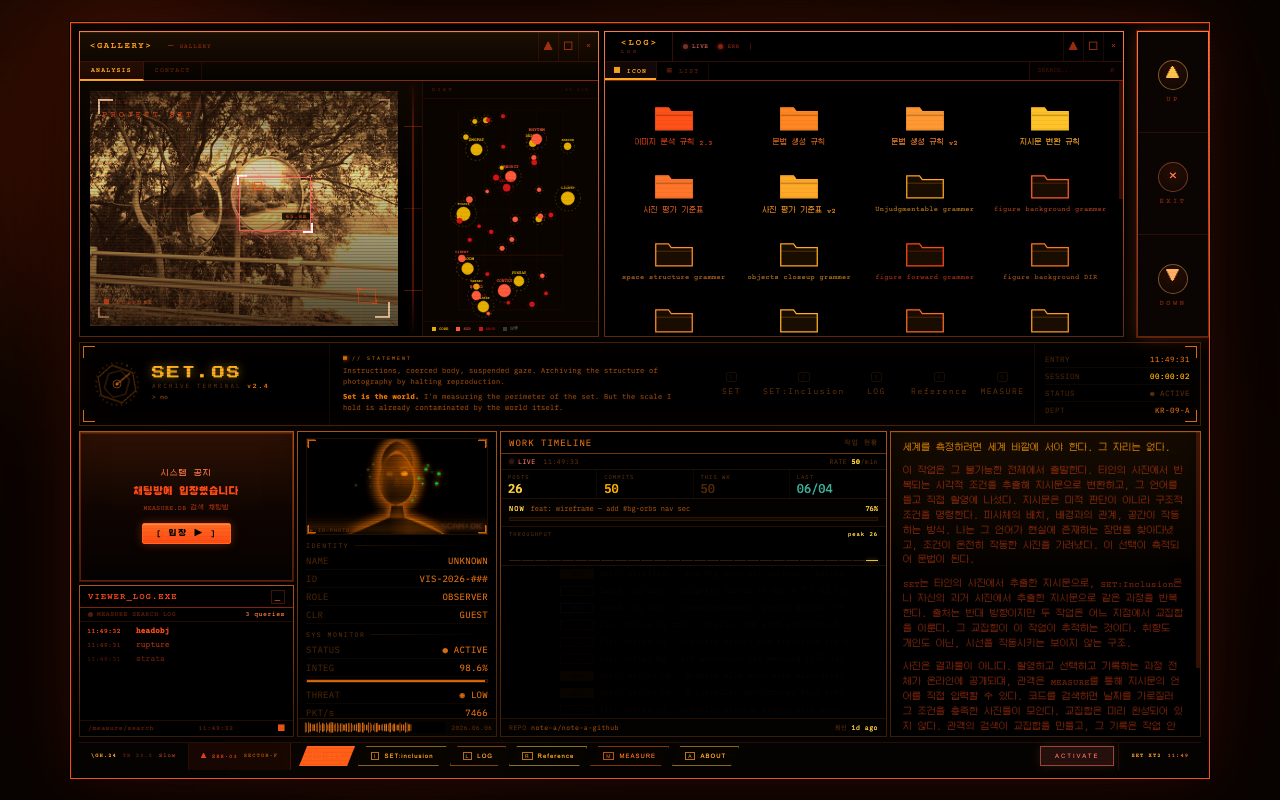
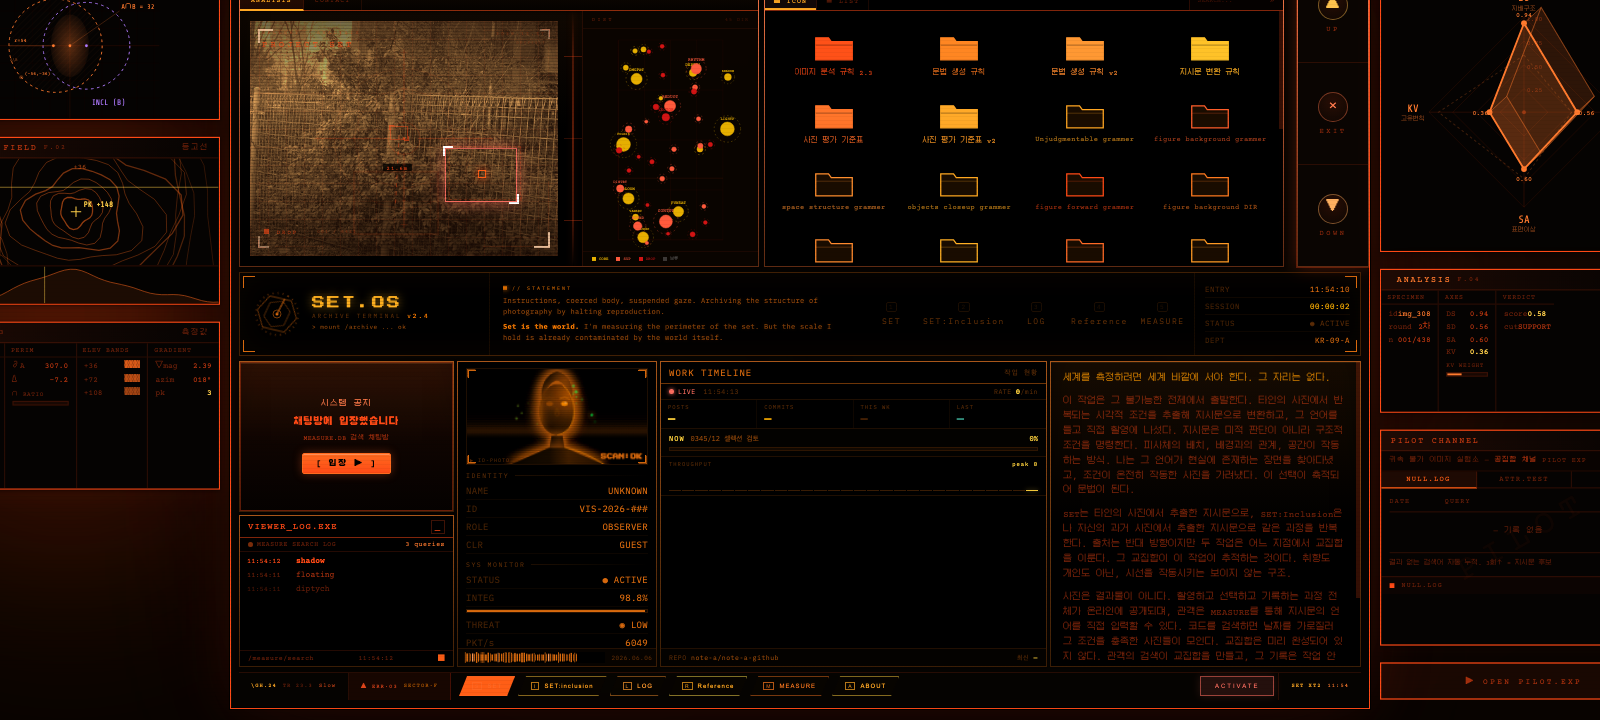
docs: LEFT/RIGHT RAIL 스크린샷 추가, 폰트 크기·색상 개선
- 1600px 뷰포트로 레일 패널 캡처 (sc-left-rail.png, sc-right-rail.png)
- LEFT RAIL(F.01~F.03), RIGHT RAIL(SVA RADAR/ANALYSIS/PILOT) 섹션에 이미지 삽입
- 전체 미리보기도 레일 포함 wide 버전으로 교체
- 본문 폰트 14px → 15.5px, txt2 #3d3530 → #211c18 (더 어둡게)

diff --git a/SET-OS_요구사항정의서.html b/SET-OS_요구사항정의서.html
@@ -10,13 +10,13 @@
   --acc:#c45c00; --acc2:rgba(196,92,0,.8); --acc3:rgba(196,92,0,.5);
   --amb:#b87000; --red:#cc2222; --teal:#1a8870; --vio:#6644cc;
   --bg:#ffffff; --bg2:#f5f3ef; --bg3:#ece9e3;
-  --txt:#1a1714; --txt2:#3d3530; --txt3:#7a6e65;
+  --txt:#0f0d0b; --txt2:#211c18; --txt3:#5a4e44;
   --mono:'IBM Plex Mono',monospace; --sans:'IBM Plex Sans KR',sans-serif;
   --border:1px solid #ddd8d0;
 }
 *{margin:0;padding:0;box-sizing:border-box;}
 html{scroll-behavior:smooth;}
-body{background:var(--bg);color:var(--txt);font-family:var(--sans);font-size:14px;line-height:1.75;}
+body{background:var(--bg);color:var(--txt);font-family:var(--sans);font-size:15.5px;line-height:1.8;}
 
 /* ── 레이아웃 ── */
 .page{max-width:900px;margin:0 auto;padding:60px 32px 120px;}
@@ -539,6 +539,11 @@ GL_FRAMES = [
       </table></div>
     </div>
 
+    <div class="sc-wrap">
+      <div class="sc-label">// LEFT RAIL — Intersection F.01 · CONTOUR FIELD F.02 · DATA F.03</div>
+      <img class="sc-img" src="screenshots/sc-left-rail.png" alt="LEFT RAIL 전체">
+    </div>
+
     <!-- ── F. RIGHT RAIL ── -->
     <div class="subsection">
       <div class="subsection-title vio">RIGHT RAIL — 분석·실험 패널</div>
@@ -580,6 +585,11 @@ GL_FRAMES = [
           <tr><td>외부 링크</td><td>"▶ OPEN PILOT.EXP" → <code>crtNav('pilot.html')</code></td></tr>
         </tbody>
       </table></div>
+    </div>
+
+    <div class="sc-wrap">
+      <div class="sc-label">// RIGHT RAIL — SVA RADAR F.04 · ANALYSIS · PILOT CHANNEL</div>
+      <img class="sc-img" src="screenshots/sc-right-rail.png" alt="RIGHT RAIL 전체">
     </div>
 
     <!-- ── G. BOTTOM ROW ── -->
